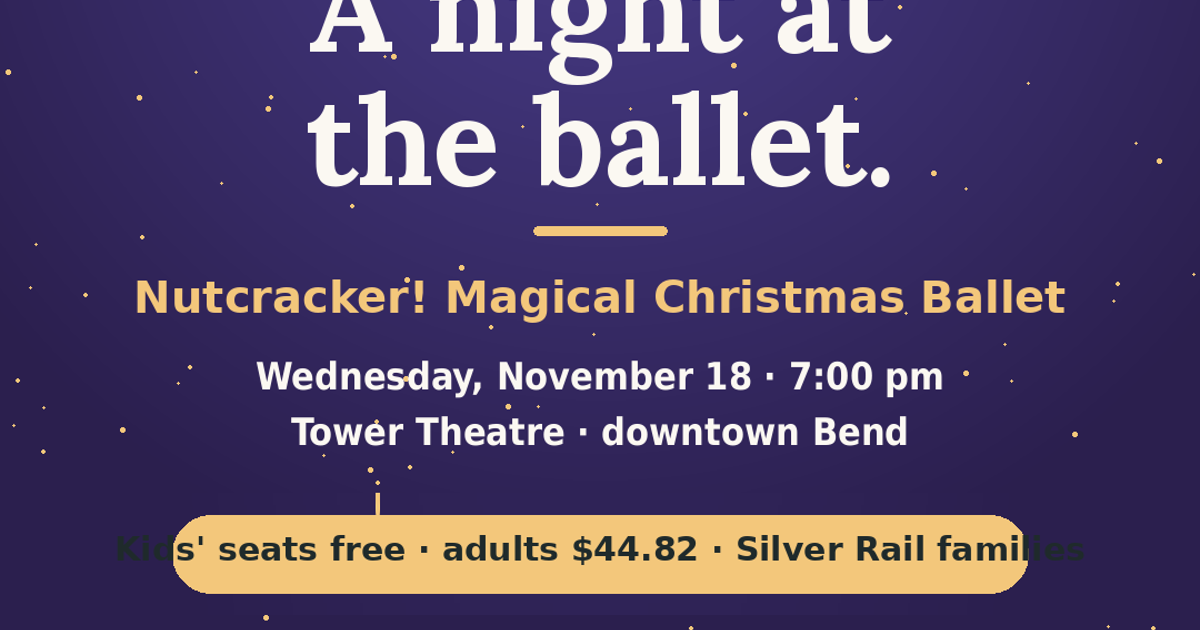
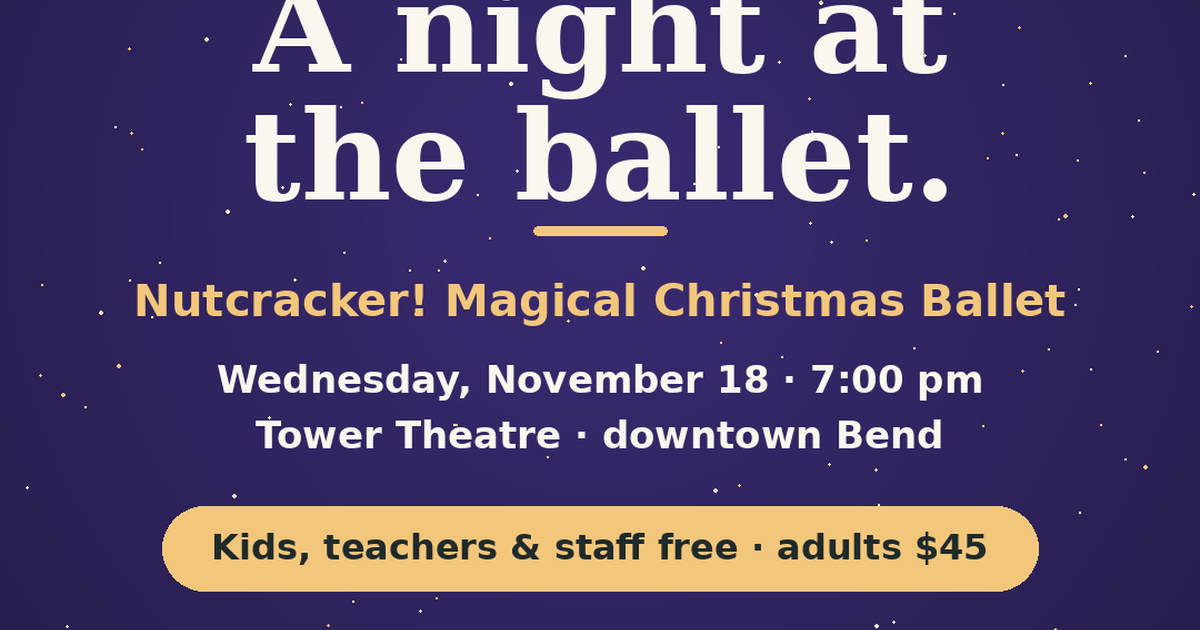
Nutcracker graphic: fix badge overflow, kids/teachers/staff free, adults $45
Claude-Session: https://claude.ai/code/session_01H4F1UDcSLMLRf2H2TyYuqC

diff --git a/parents.html b/parents.html
@@ -186,9 +186,9 @@ footer.sf .sf-legal a{color:var(--ink-2)}
     <div class="event">
       <img src="assets/nutcracker-square.png" alt="A night at the ballet for Silver Rail families: Nutcracker! Magical Christmas Ballet, Wednesday November 18 at 7 pm, Tower Theatre, downtown Bend">
       <div>
-        <div class="eyebrow">Wednesday, Nov 18 · 7 pm · Tower Theatre · kids free · adults $44.82</div>
+        <div class="eyebrow">Wednesday, Nov 18 · 7 pm · Tower Theatre · kids, teachers &amp; staff free · adults $45</div>
         <h2 style="margin-bottom:.3em">A night at the ballet.</h2>
-        <p>Prime seats to <i>Nutcracker! Magical Christmas Ballet</i>, an after-show Q&amp;A with the dancers, and a keepsake pewter ornament for every person in our group. The fund covers every kid's seat; grown-ups sit with us at the production's special group price of $44.82. Seats are limited; reserve by 8 pm Tuesday, Nov 10.</p>
+        <p>Prime seats to <i>Nutcracker! Magical Christmas Ballet</i>, an after-show Q&amp;A with the dancers, and a keepsake pewter ornament for every person in our group. The fund covers every seat for Silver Rail kids, teachers and staff; grown-ups sit with us at the production's special group price of $45. Seats are limited; reserve by 8 pm Tuesday, Nov 10.</p>
         <p style="margin:0"><a class="btn" href="nutcracker.html">Reserve your seats</a> &nbsp; <a href="nutcracker.html" style="font-weight:600">Details →</a></p>
       </div>
     </div>
